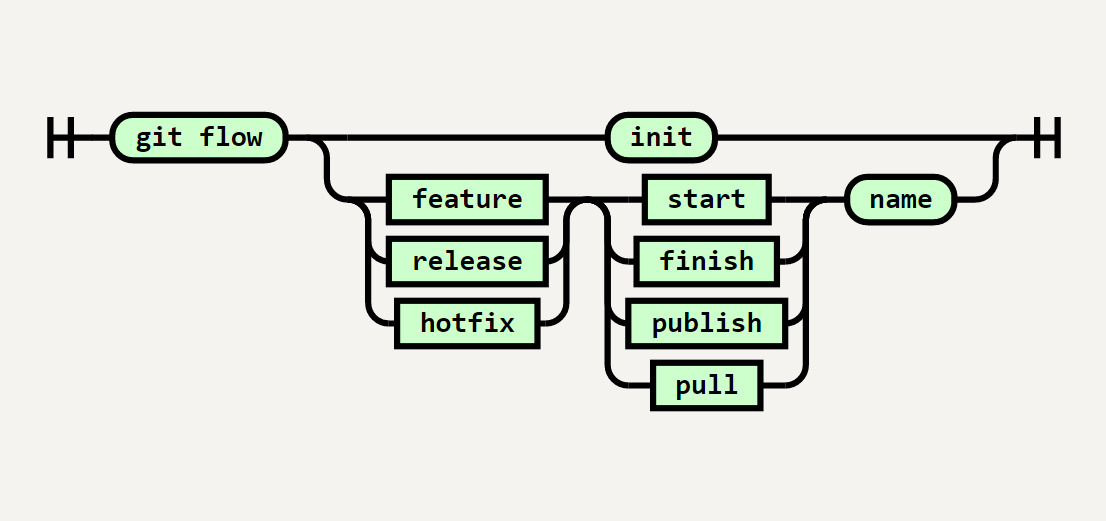
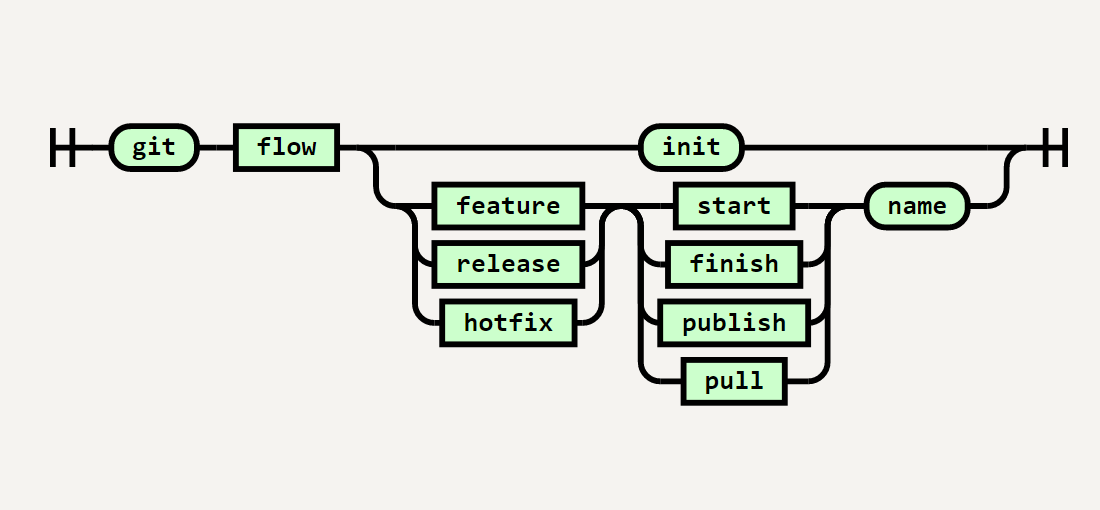
Split git-flow commands in diferent nodes

Changed region(s): [[0.0309, 0.2059, 0.9891, 0.7941]]

diff --git a/main.js b/main.js
@@ -5,7 +5,8 @@
     var gitFlowRailroadDiagrams = document.getElementById('git-flow-railroad-diagrams');
 
     Diagram(
-        Terminal('git flow'),
+        Terminal('git'),
+        NonTerminal('flow'),
         Choice(0,
             Terminal('init'),
             Sequence(
